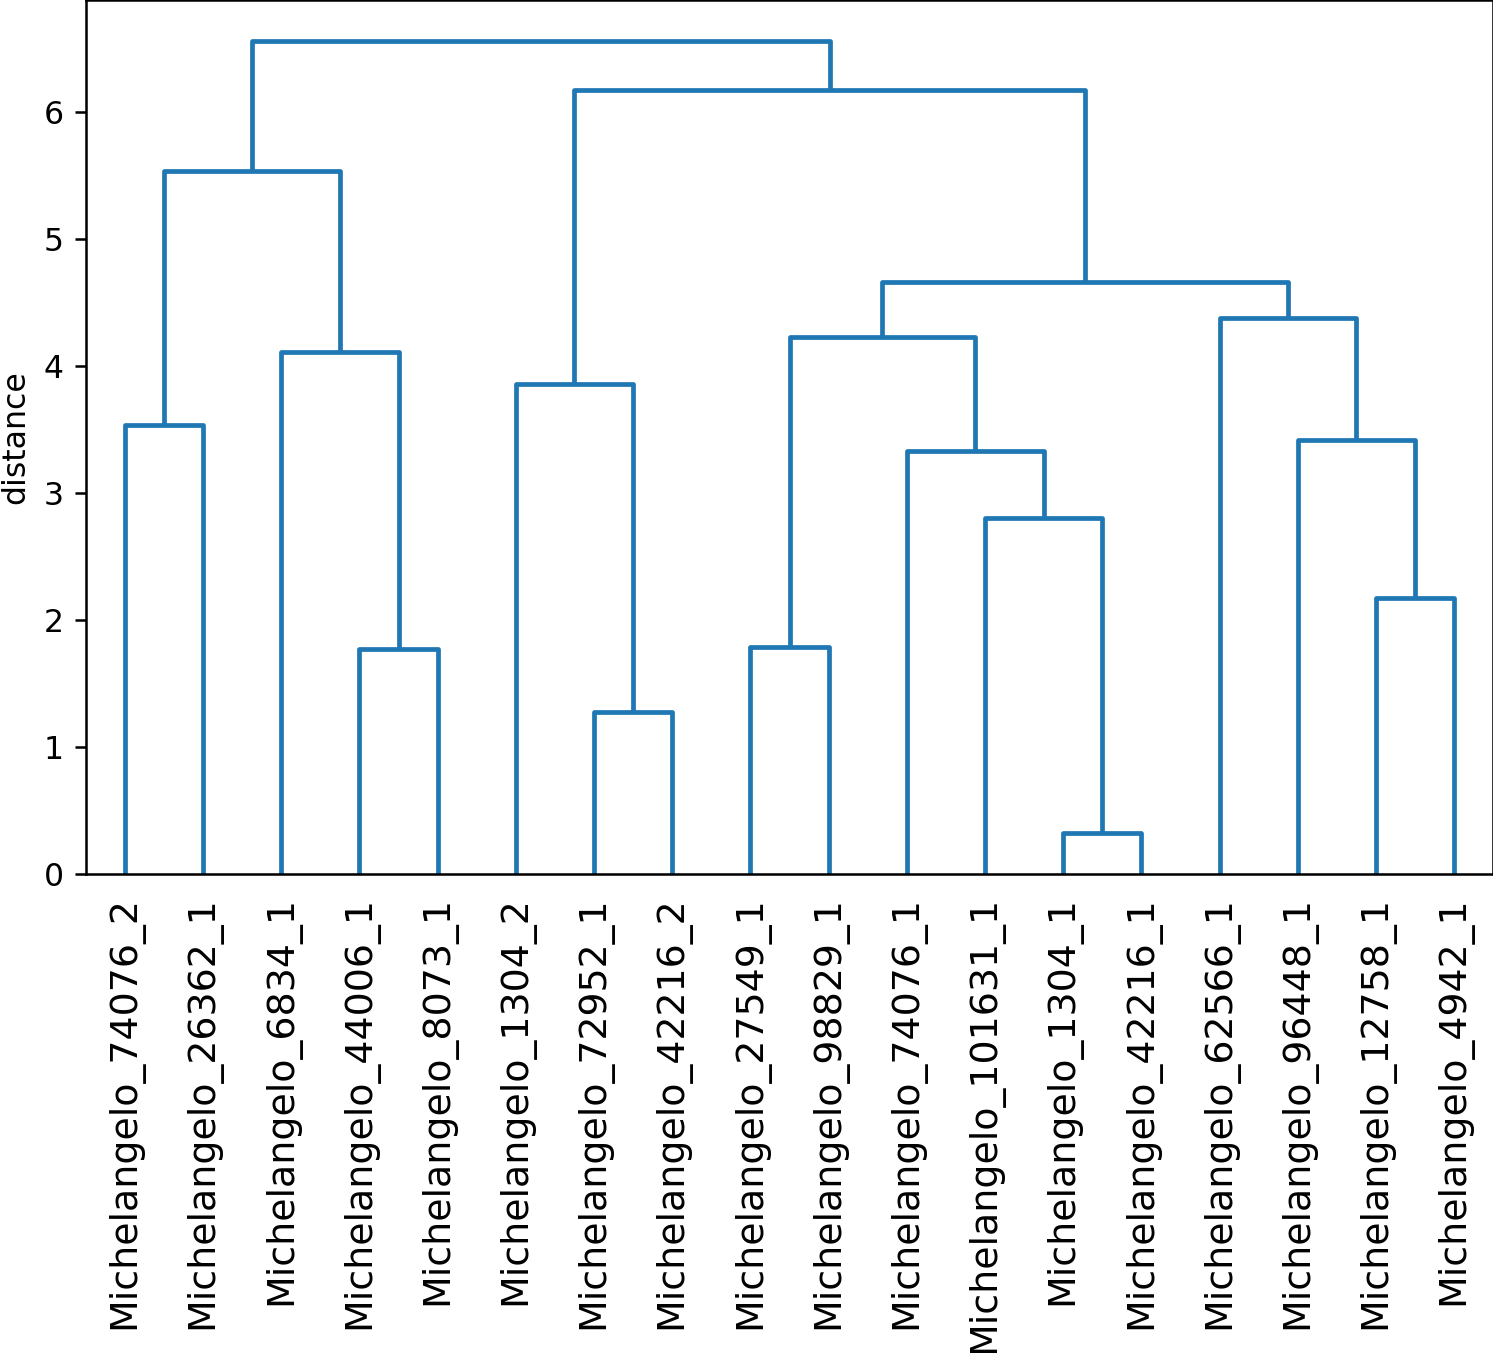
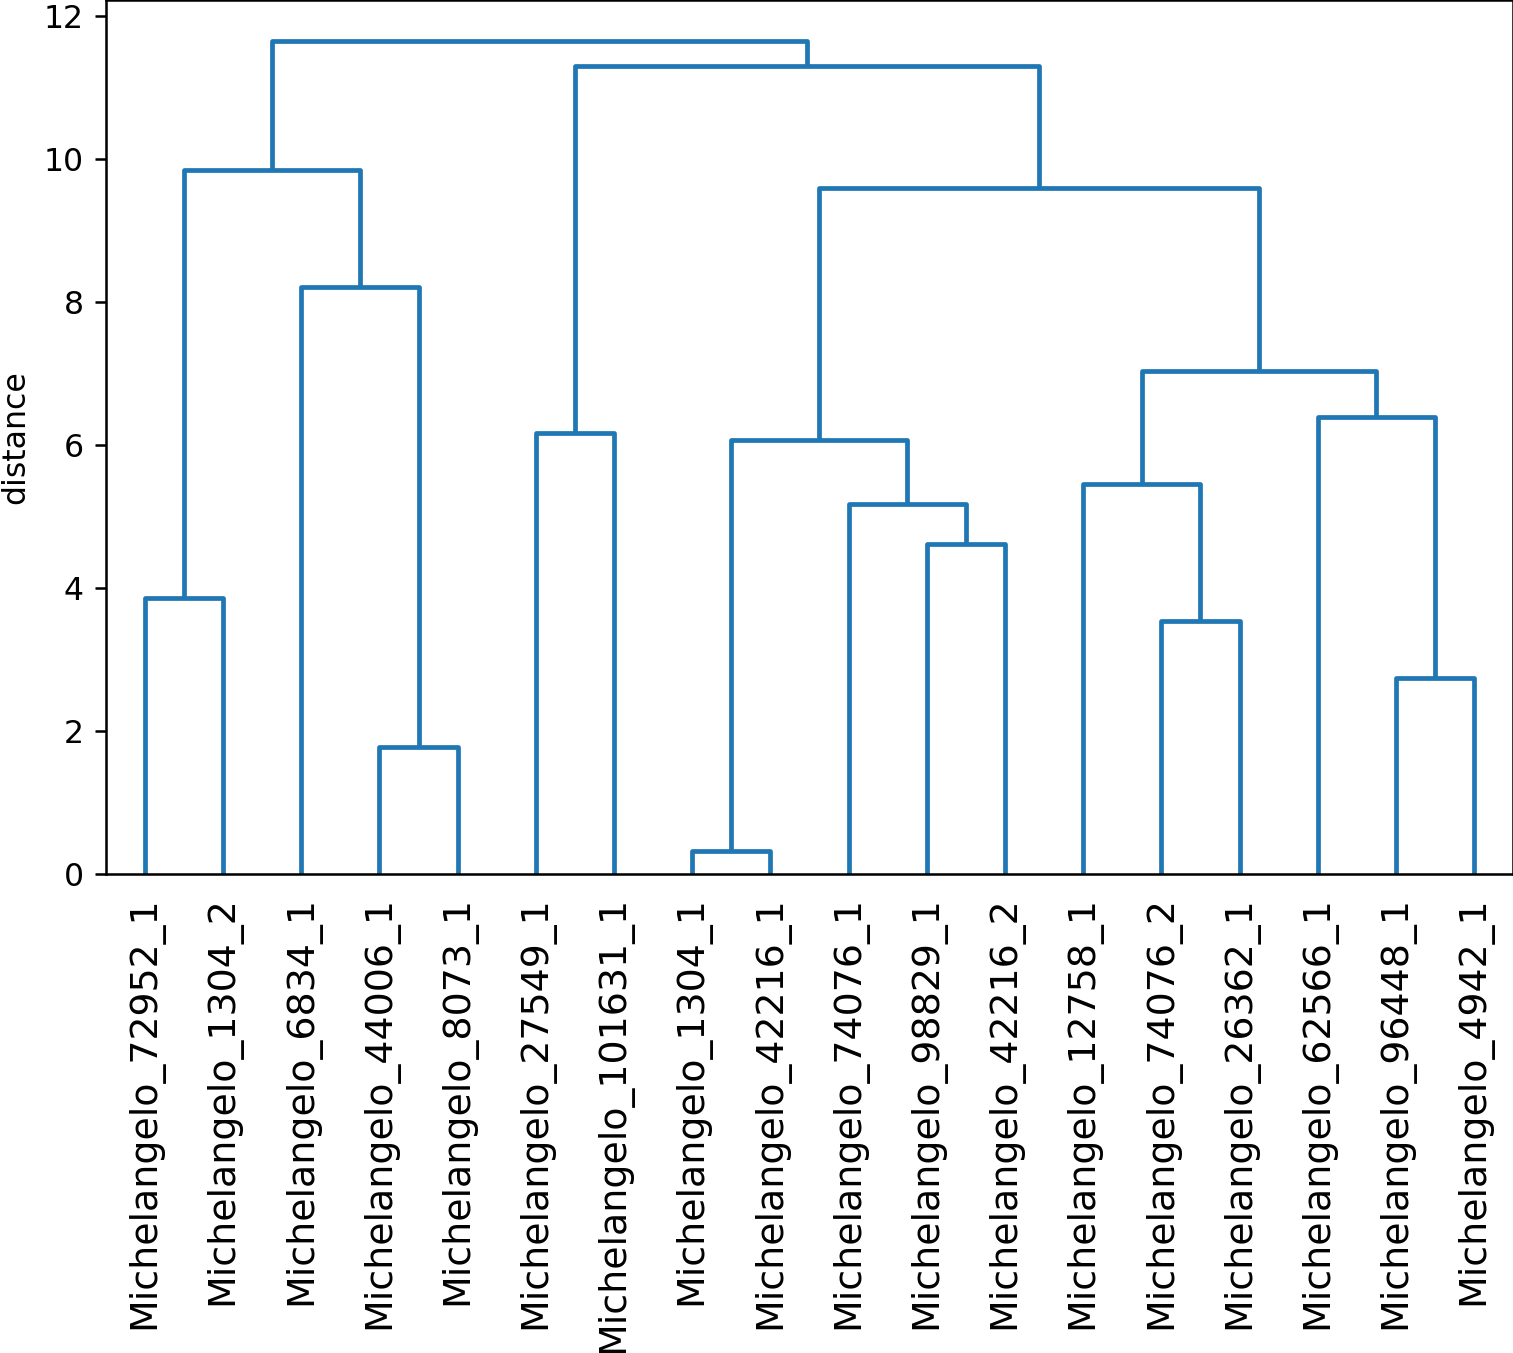
update

diff --git a/analyze_keypoints.py b/analyze_keypoints.py
@@ -316,6 +316,12 @@ def load_keypoints(infile, output_dict={}, output_index=[], show=False):
         person_index += 1
         output_index.append('{}_{}'.format(index_fname, person_index))
 
+        ######################
+        # Angles of 3 Joints #
+        ######################
+        # To generate the dendrogram!!!
+        calc_joint_angle(output_dict, keypoints)
+
         ################
         # Bounding Box #
         ################
@@ -324,11 +330,6 @@ def load_keypoints(infile, output_dict={}, output_index=[], show=False):
         person_fname = image_fname.replace('_rendered', '_' + str(person_index))
         cv2.imwrite(person_fname, image_bbox)
         print('output', person_fname)
-
-        ######################
-        # Angles of 3 Joints #
-        ######################
-        calc_joint_angle(output_dict, keypoints)
 
         ############
         # Rotation #

diff --git a/README.md b/README.md
@@ -72,10 +72,27 @@ python demo_tfpose.py --input dataset/painter-of-modern/Felix\ Vallotton\ /Magic
 python extract_keypoints_pyopenpose.py --input datasets/
 ```
 
-2. Execute the following command to generate bbox for each valid person + angle CSV file:
+2. Execute the following command to generate:
+
+* For each valid person: bbox + normalized pose;
+* For all valid people: angle CSV file to generate the dendrogram later;
+
 ```bash
 python analyze_keypoints.py --input output/data/
 ```
+
+<p float="left">
+    <img src="./pix/54409_1.png" width=150 />
+    <img src="./pix/54409_norm_1.png" width=150 />
+    <img src="./pix/54409_2.png" width=150 />
+    <img src="./pix/54409_norm_2.png" width=150 />
+    <img src="./pix/54409_3.png" width=150 />
+    <img src="./pix/54409_norm_3.png" width=150 />
+</p>
+
+<p float="left">
+    <img src="./pix/54409_rendered.png" width=600 />
+</p>
 
 3. Execute the following command to generate the dendrogram:
 ```bash
